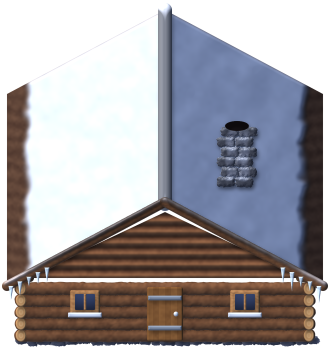
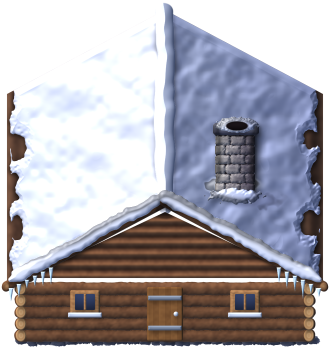
Долгая зима на Godot: a snowy hut roof that reads from above
The hut's slopes were two flat panels. Now each slope is shingle rows
under an uneven snow blanket: soft lumps and wind ripples, a rounded
slab edge that leaves shingle rows peeking out at the eaves and the
gable edge, a thick snow lip over the barge boards, a soft rounded snow
ridge, the shaded slope in a cool blue-violet gradient and the sunny
one with soft drifts of shade. The chimney is three courses wide, dark
against the snow, with a snow cap, snow piled at its foot and its
shadow on the slope. emit_sprite takes a fixed crop box, so hut.2–4
keep their size, foot and anchor exactly.

Claude-Session: https://claude.ai/code/session_01FgmqBRwsyLyX1ZZuHMpVZ9

diff --git a/tools/winter-godot/art/buildings.py b/tools/winter-godot/art/buildings.py
@@ -144,52 +144,91 @@ def window(cv, x, glow=False):
 
 
 def roof(cv, seed=30, hole=False):
-    """Two snowy slopes running back from the front gable, the gable's log face, icicles on the eaves."""
+    """Two slopes running back from the front gable under a thick, uneven blanket of snow: soft lumps and wind
+    ripples, a rounded snow ridge, a visible snow slab at the eaves and gable edges, shingle rows and plank ends
+    peeking out near the edges, the slope turned from the sun in a cool blue-violet gradient, icicles."""
     top = FY - 8 - WALL
     apex = (FX, top - GABLE)
     over = 14
+    half = 1.5 * T + over
     left = [(X0 - over, top + 10), apex, (apex[0], apex[1] - DEPTH), (X0 - over, top + 10 - DEPTH)]
     right = [(X1 + over, top + 10), apex, (apex[0], apex[1] - DEPTH), (X1 + over, top + 10 - DEPTH)]
+    X, Y = cv.X, cv.Y
+    across = np.clip(np.abs(X - FX) / half, 0, 1)          # 0 at the ridge, 1 at the eave
+    # how far a point lies down the slope from the ridge, and back from the gable (towards the top of the image)
     for poly, sign, sd in ((right, 1, seed + 1), (left, -1, seed)):
-        d = sd_poly(cv.X, cv.Y, poly)
-        # the slope's normal: left slope faces up-left (catches the sun), right slope faces right
-        across = np.clip(np.abs(cv.X - FX) / (1.5 * T + over), 0, 1)
-        rows_ = np.sin((across * (1.5 * T + over)) / 13.0 * math.pi)
-        bulge = (1 - across) * 120 + (cv.noise(30, sd + 7, 2) - 0.5) * 2
-        shingles = 0.5 + 0.5 * np.sin((cv.Y + across * 30) / 7.0 * math.pi)
-        alb = colour_field(cv, "#7a5a44", "#3e2a22", np.clip(0.3 + shingles * 0.25 + cv.noise(4, sd, 2) * 0.3, 0, 1))
-        # a thick snow blanket over the slope with a soft scalloped edge near the eave
-        edge_y = np.abs(cv.X - FX) / (1.5 * T + over)
-        lim = 0.88 + (cv.noise(12, sd + 4, 2) - 0.5) * 0.06
-        smask = (1 - smoothstep(lim - 0.03, lim + 0.02, edge_y))
-        elev = WALL + GABLE * (1 - across)
-        cv.part(d, alb, bulge=bulge, elev=elev, snow=1.0, snow_mask=smask, snow_seed=sd, snow_thick=7, cast=0.5,
-                cast_r=4)
+        d = sd_poly(X, Y, poly)
+        # the roof itself: rows of dark shingles, seen only where the snow leaves them
+        rows_ = 0.5 + 0.5 * np.sin(across * half / 9.0 * math.pi)
+        planks = colour_field(cv, "#8a6248", "#3a2820", np.clip(0.15 + rows_ * 0.55 + cv.noise(6, sd, 2) * 0.25, 0, 1))
+        tilt = (1 - across) * 95
+        cv.part(d, planks, bulge=tilt + rows_ * 1.5, elev=WALL + GABLE * (1 - across), cast=0.5, cast_r=4)
+        # the snow blanket: inset from the eave and the gable edge by an uneven margin, so shingles peek out there
+        edge_noise = (cv.noise(9, sd + 4, 3) - 0.5)
+        dist_eave = (1 - across) * half                      # px from the eave, along the slope
+        front = (top + 10 - Y) - (1 - across) * (top + 10 - apex[1])  # px back from the front edge of the slope
+        margin_e = 5 + edge_noise * 9 + smoothstep(0.6, 0.85, cv.noise(14, sd + 8, 2)) * 7
+        margin_f = 4 + edge_noise * 6
+        ds = np.maximum(d, np.maximum(margin_e - dist_eave, margin_f - front))
+        # a few bare patches near the edges where the wind took the snow off
+        r = rng(sd + 50)
+        for k in range(2):
+            px = FX + sign * half * (0.9 + r.random() * 0.06)
+            py = apex[1] - DEPTH * (0.25 + k * 0.4 + r.random() * 0.15) + (top + 10 - apex[1]) * 0.9
+            ds = np.maximum(ds, -(sd_ellipse(X, Y, px, py, 6 + r.random() * 4, 9 + r.random() * 6) +
+                                  (cv.noise(5, sd + 60 + k, 2) - 0.5) * 5))
+        inside = np.clip(-ds, 0, None)
+        # thickness: a rounded slab edge, soft lumps, long wind ripples across the slope
+        slab = np.sqrt(np.clip(inside / 7.0, 0, 1)) * 7.0
+        lumps = (cv.noise(30, sd + 11, 3) - 0.5) * 10 + (cv.noise(12, sd + 12, 2) - 0.5) * 1.5
+        ripple = np.sin((Y * 0.55 + across * half * 0.35) / 5.5 + cv.noise(40, sd + 13, 2) * 7) * 0.8
+        sbulge = tilt + slab + lumps * smoothstep(0, 10, inside) + ripple
         if sign > 0:
-            # the slope turned from the sun: a cool tint so the two slopes read apart
-            cv.alb = np.where((d < 0)[..., None], cv.alb * np.array([0.9, 0.93, 1.0]), cv.alb)
-    # the ridge: a snow roll along the top
-    cv.part(sd_segment(cv.X, cv.Y, apex[0], apex[1] - DEPTH, apex[0], apex[1] + 2, 7), rgb("snow_hi"), round_=6,
-            elev=np.full_like(cv.X, WALL + GABLE + 6), spec=0.4, cast=0.3)
+            # turned from the sun: cool blue-violet, deeper towards the eave and the ridge
+            tone = np.clip(0.25 + across * 0.35 + (1 - smoothstep(0.0, 0.18, across)) * 0.25
+                           + cv.noise(22, sd + 14, 2) * 0.2, 0, 1)
+            salb = colour_field(cv, "#e4ebf8", "#a9b2dc", tone)
+        else:
+            # in the sun: warm-white near the ridge, cooler and greyer towards the eave, soft drifts of shade
+            tone = np.clip(0.08 + across * 0.45 + (cv.noise(28, sd + 14, 2) - 0.5) * 0.5, 0, 1)
+            salb = colour_field(cv, "#f2f4fa", "#bfcae6", tone)
+        cv.part(ds, salb, bulge=sbulge, elev=WALL + GABLE * (1 - across) + 6, spec=0.45, cast=0.55, cast_r=3,
+                cast_off=(1.0 * sign, 2.0))
+    # the ridge: a soft rounded roll of snow, wobbling a little
+    wob = (cv.noise(18, seed + 21, 2) - 0.5) * 5
+    ridge = sd_segment(X + wob, Y, apex[0], apex[1] - DEPTH + 2, apex[0], apex[1] + 3, 9)
+    rr = np.clip(1 - np.abs(X + wob - FX) / 9, 0, 1)
+    cv.part(ridge, colour_field(cv, "#fbfdff", "#c9d3ee", np.clip((X + wob - FX) / 9 * 0.5 + 0.4, 0, 1)),
+            bulge=np.sqrt(rr) * 9 + 100, elev=np.full_like(X, WALL + GABLE + 8), spec=0.5, cast=0.25, cast_r=3,
+            soft=1.2)
     # the front gable: a triangle of logs over the wall
-    gable = sd_poly(cv.X, cv.Y, [(X0 + 4, top + 2), (FX, top - GABLE + 10), (X1 - 4, top + 2)])
-    rows = np.floor((top - cv.Y) / 11.0)
-    logs = 0.5 + 0.5 * np.cos(((top - cv.Y) % 11.0) / 11.0 * math.tau)
+    gable = sd_poly(X, Y, [(X0 + 4, top + 2), (FX, top - GABLE + 10), (X1 - 4, top + 2)])
+    logs = 0.5 + 0.5 * np.cos(((top - Y) % 11.0) / 11.0 * math.tau)
     alb = colour_field(cv, "#9a6a46", "#4a2f22", np.clip(0.75 - logs * 0.45 + cv.noise(5, 33, 2) * 0.25, 0, 1))
-    cv.part(gable, alb, bulge=logs * 4, elev=WALL + np.clip(top - cv.Y, 0, None), cast=0.3)
-    # the barge boards along the gable's edges
-    for (ax, ay), (bx, by) in (((X0 - over, top + 10), apex), ((X1 + over, top + 10), apex)):
-        cv.part(sd_segment(cv.X, cv.Y, ax, ay, bx, by, 5), wood(cv, 35, "#8a5e3c", "#4a2f22"), round_=4,
-                elev=np.full_like(cv.X, WALL + GABLE / 2), cast=0.45, snow=0.8, snow_seed=36, snow_thick=4)
-    # icicles hanging from the eaves' lowest corners
+    cv.part(gable, alb, bulge=logs * 4, elev=WALL + np.clip(top - Y, 0, None), cast=0.3)
+    # the barge boards along the gable's edges, with plank ends at the eave corners
+    for side, ((ax, ay), (bx, by)) in ((-1, ((X0 - over, top + 10), apex)), (1, ((X1 + over, top + 10), apex))):
+        cv.part(sd_segment(X, Y, ax, ay, bx, by, 5), wood(cv, 35, "#8a5e3c", "#4a2f22"), round_=4,
+                elev=np.full_like(X, WALL + GABLE / 2), cast=0.45)
+        de = sd_ellipse(X, Y, ax + side * 1, ay + 1, 4.2, 4.6)
+        cv.part(de, colour_field(cv, "#b88a5a", "#5a3a26", np.clip(np.hypot(X - ax, Y - ay) / 5, 0, 1)), round_=2,
+                elev=np.full_like(X, WALL), cast=0.2)
+        # the snow slab overhanging the gable edge: a thick lip, uneven, shading the board under it
+        t = np.clip(((X - ax) * (bx - ax) + (Y - ay) * (by - ay)) / ((bx - ax) ** 2 + (by - ay) ** 2), 0, 1)
+        lip_r = 5.5 + (cv.noise(8, 40 + side, 2) - 0.5) * 5
+        lip = sd_segment(X, Y, ax + side * -3, ay - 6, bx, by - 6, 1.0) - lip_r * smoothstep(0.0, 0.1, t)
+        cv.part(lip, colour_field(cv, "#f6f9ff", "#c3cde8", np.clip((Y - (ay + (by - ay) * t)) / 12 + 0.5, 0, 1)),
+                round_=5, elev=np.full_like(X, WALL + GABLE / 2 + 6), spec=0.4, cast=0.5, cast_r=2.5, cast_off=(0, 2.5))
+    # icicles under the eaves' lowest corners
     r = rng(seed + 9)
     for side in (-1, 1):
-        for k in range(5):
-            ex = FX + side * (1.5 * T + over - 4 - k * 9)
-            ey = top + 10 - k * 9 * GABLE / (1.5 * T)
-            L = 8 + r.random() * 12
-            d = sd_poly(cv.X, cv.Y, [(ex - 2.5, ey), (ex + 2.5, ey), (ex, ey + L)])
-            cv.part(d, rgb("ice_hi"), round_=1.5, spec=1.0, elev=np.full_like(cv.X, WALL), cast=0.15, opacity=0.9)
+        for k in range(6):
+            ex = FX + side * (half - 4 - k * 8)
+            ey = top + 12 - k * 8 * GABLE / (1.5 * T)
+            L = 7 + r.random() * 13
+            d = sd_poly(X, Y, [(ex - 2.4, ey), (ex + 2.4, ey), (ex, ey + L)])
+            cv.part(d, colour_field(cv, "ice_hi", "ice", np.clip((Y - ey) / L, 0, 1)), round_=1.5, spec=1.0,
+                    elev=np.full_like(X, WALL), cast=0.15, opacity=0.92)
     if hole:
         roof_hole(cv)
 
@@ -213,20 +252,42 @@ def roof_hole(cv):
 
 
 def chimney(cv):
+    """A stone chimney standing out of the right slope: three courses wide, dark against the snow, a snow cap
+    around its sooty mouth, snow heaped against its uphill side. The mouth (the smoke anchor) stays put."""
     cx, top = FX + 70, FY - 8 - WALL - GABLE - 70
+    X, Y = cv.X, cv.Y
+    base_y = top + 62
+    # its shadow and the snow heaped behind it on the slope
+    shapes.snow_mound(cv, cx, base_y - 4, 50, 14, 105, sastrugi=False)
+    # its shadow falling down-right over the snow of the slope
+    sh = sd_ellipse(X, Y, cx + 22, base_y + 6, 24, 9) + (cv.noise(6, 108, 2) - 0.5) * 4
+    cv.part(sh, rgb("#5a628e"), flat=True, elev=np.full_like(X, WALL + GABLE + 30), cast=0, opacity=0.38, soft=8)
     stones = None
-    r = rng(101)
-    for k in range(6):
-        for j in range(2):
-            x = cx - 9 + j * 18 + (k % 2) * 4
-            y = top + 50 - k * 10
-            s = sd_box(cv.X, cv.Y, x, y, 9, 5, 3) + (cv.noise(2, 102 + k * 2 + j, 2) - 0.5) * 2
+    for k in range(7):
+        for j in range(3):
+            x = cx - 15 + j * 15 + (k % 2) * 5 - 2
+            y = base_y - 6 - k * 9.5
+            s = sd_box(X, Y, x, y, 7.6, 4.6, 2.6) + (cv.noise(2, 102 + k * 3 + j, 2) - 0.5) * 1.6
             stones = s if stones is None else np.minimum(stones, s)
-    alb = colour_field(cv, "stone_hi", "stone_dark", np.clip(0.35 + cv.noise(3, 103, 2) * 0.4, 0, 1))
-    cv.part(stones, alb, round_=4, elev=np.full_like(cv.X, WALL + GABLE + 50), cast=0.5, snow=0.7, snow_seed=104)
-    # the dark mouth and its snow-free sooty rim
-    cv.part(sd_ellipse(cv.X, cv.Y, cx + 2, top - 6, 12, 5), rgb("#1a1416"), flat=True,
-            elev=np.full_like(cv.X, WALL + GABLE + 60))
+    body = sd_box(X, Y, cx, (base_y + top) / 2 - 4, 20, (base_y - top) / 2 + 2, 3)
+    stones = np.maximum(stones, body)
+    mortar = sd_box(X, Y, cx, (base_y + top) / 2 - 4, 19, (base_y - top) / 2 + 1, 3)
+    cv.part(mortar, rgb("#2e2a30"), round_=6, elev=np.full_like(X, WALL + GABLE + 50), cast=0.75, cast_r=6,
+            cast_off=(4, 4))
+    alb = colour_field(cv, "#b4aea6", "#4c4650", np.clip(0.28 + cv.noise(3, 103, 2) * 0.45 + (X - cx) / 36, 0, 1))
+    cv.part(stones, alb, round_=3.5, elev=np.full_like(X, WALL + GABLE + 50), cast=0.3, cast_r=1.5)
+    # snow around its foot on the slope (in front)
+    d = sd_ellipse(X, Y, cx + 2, base_y + 2, 26, 7) + (cv.noise(4, 106, 2) - 0.5) * 5
+    cv.part(d, colour_field(cv, "#eef2fb", "#b6bfe0", np.clip((X - cx) / 40 + 0.5, 0, 1)), round_=5,
+            elev=np.full_like(X, WALL + GABLE + 30), spec=0.4, cast=0.2)
+    # the cap: a stone slab, a ring of snow and the dark sooty mouth
+    cv.part(sd_box(X, Y, cx + 1, top - 3, 23, 6, 3), colour_field(cv, "#8e90a0", "#3e3e50", np.clip((Y - top + 6) / 10, 0, 1)),
+            round_=4, elev=np.full_like(X, WALL + GABLE + 62), cast=0.4)
+    ring = sd_ellipse(X, Y, cx + 2, top - 7, 21, 8) + (cv.noise(3, 107, 2) - 0.5) * 3
+    cv.part(ring, colour_field(cv, "#fbfdff", "#c9d1ec", np.clip((X - cx) / 30 + 0.4, 0, 1)), round_=5,
+            elev=np.full_like(X, WALL + GABLE + 64), spec=0.5, cast=0.2)
+    cv.part(sd_ellipse(X, Y, cx + 2, top - 6, 11, 4.6), colour_field(cv, "#2a2024", "#0e0a0c", np.clip((Y - top + 10) / 8, 0, 1)),
+            flat=True, elev=np.full_like(X, WALL + GABLE + 66), soft=1.0)
     return (cx + 2, top - 8)
 
 
@@ -280,7 +341,9 @@ def hut(m):
         if stage == 4:
             sx, sy = chimney(cv)
             extra["anchor"] = [round(sx, 1), round(sy, 1)]
-        e = emit_sprite(m, f"hut.{stage}", cv, rel + f"hut_{stage}", block=1)
+        # the crop the roofed hut has always had (330 × 349, foot 165, 350): the game's placement must not move
+        e = emit_sprite(m, f"hut.{stage}", cv, rel + f"hut_{stage}", block=1,
+                        box=(0, int(FY) - 350, HW, int(FY) - 350 + 349))
         if extra:
             # the anchor in trimmed coordinates: the foot moved by the trim, so move it the same way
             dx, dy = e["foot"][0] - FX, e["foot"][1] - FY

diff --git a/tools/winter-godot/art/paint.py b/tools/winter-godot/art/paint.py
@@ -424,12 +424,17 @@ class Manifest:
 
 
 def emit_sprite(man, key, cv, rel, shadow=True, normal=True, block=None, shadow_strength=0.42, shadow_soft=3.0,
-                normal_scale=1.0, squash=1.0, extra=None):
+                normal_scale=1.0, squash=1.0, extra=None, box=None):
     """Render a Canvas, trim it, write the PNGs under assets/<rel> and add the key to the manifest."""
     rgba, nm, _ = cv.render()
     foot = cv.foot
-    rgba, foot2, ex = trim(rgba, foot, [nm])
-    nm = ex[0]
+    if box is not None:
+        # a fixed crop (x0, y0, x1, y1) in canvas px: keeps a sprite's size and foot when its content changes
+        x0, y0, x1, y1 = box
+        rgba, nm, foot2 = rgba[y0:y1, x0:x1], nm[y0:y1, x0:x1], (foot[0] - x0, foot[1] - y0)
+    else:
+        rgba, foot2, ex = trim(rgba, foot, [nm])
+        nm = ex[0]
     path = os.path.join(ASSETS, rel + ".png")
     save_png(rgba, path)
     entry = {"file": res_path(path), "size": [int(rgba.shape[1]), int(rgba.shape[0])],
